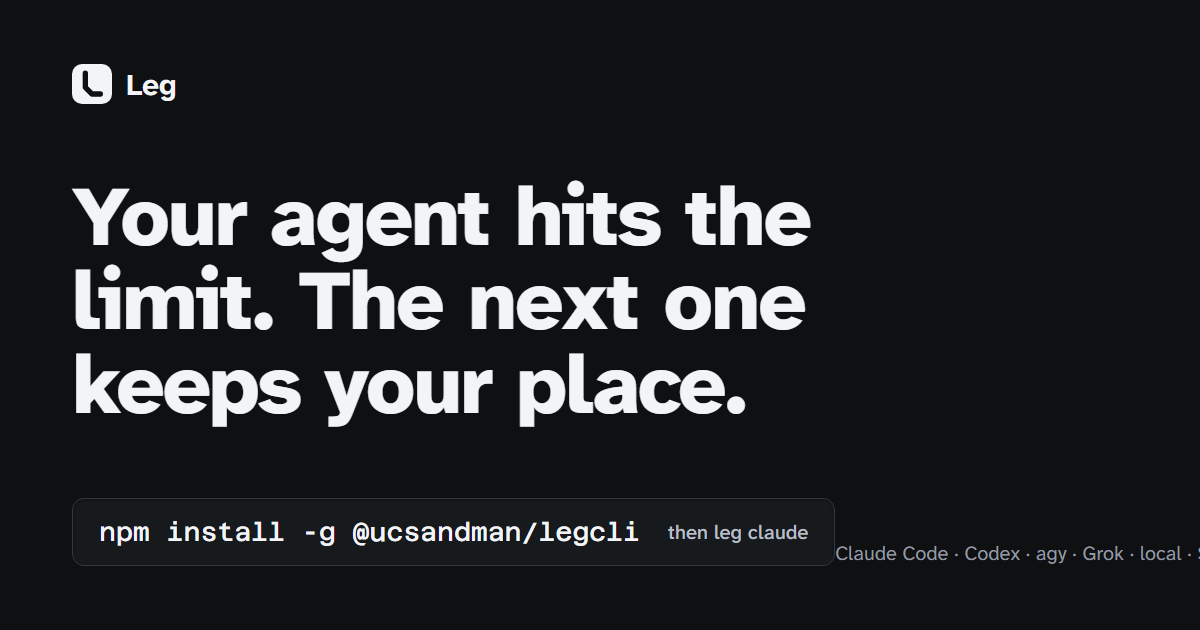
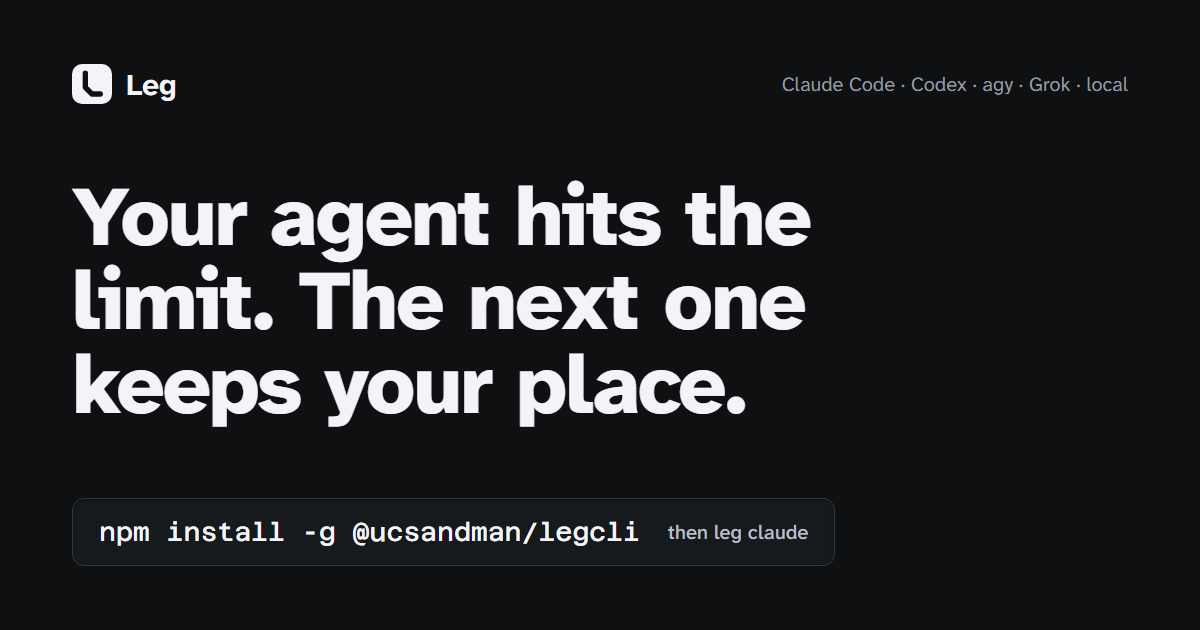
Claude: [RELEASE] 0.16.1: a backed-off board is not a missing one, one board tab, a wider login column, and the sharecard reaches X
- the terminal stops saying "no board is reading claude usage" while the
  board's poller is backed off on a 429: the poller writes next_poll_at on
  every attempt and the terminal stands down while that promise holds
- leg claude opens the board only when /api/health says viewers=0
- the capacity strip's name column fits the longest login (claude/work)
- robots.txt Disallow: /og also blocked /og.png, so X drew a bare link; now
  /og$ plus Allow: /og.png, card foot fixed, image at ?v=5

Claude-Session: https://claude.ai/code/session_018wSx8CBykYpak8YkJFRioE

Changed region(s): [[0.6475, 0.1206, 0.9558, 0.1508], [0.7092, 0.8746, 0.9867, 0.9048]]

diff --git a/site/docs/changelog.html b/site/docs/changelog.html
@@ -12,13 +12,13 @@
 <meta property="og:url" content="https://legcli.com/docs/changelog">
 <meta property="og:site_name" content="Leg">
 <meta property="og:title" content="Leg changelog">
-<meta property="og:image" content="https://legcli.com/og.png?v=4">
-<meta property="og:image:secure_url" content="https://legcli.com/og.png?v=4">
+<meta property="og:image" content="https://legcli.com/og.png?v=5">
+<meta property="og:image:secure_url" content="https://legcli.com/og.png?v=5">
 <meta property="og:image:type" content="image/png">
 <meta name="twitter:card" content="summary_large_image">
 <meta name="twitter:title" content="Leg changelog">
 <meta name="twitter:description" content="Every released version of Leg and what changed in it.">
-<meta name="twitter:image" content="https://legcli.com/og.png?v=4">
+<meta name="twitter:image" content="https://legcli.com/og.png?v=5">
 <link rel="preload" href="/fonts/atkinson-hyperlegible-next-var.woff2" as="font" type="font/woff2" crossorigin>
 <link rel="preload" href="/fonts/azeret-mono-var.woff2" as="font" type="font/woff2" crossorigin>
 <link rel="stylesheet" href="/style.css">
@@ -54,8 +54,33 @@
     </ul>
   </nav>
   <main id="doc" class="docs-body">
-<nav class="toc" aria-label="On this page"><p class="toc-title">On this page</p><ul><li><a href="#0160-2026-09-19">0.16.0 (2026-09-19)</a></li><li><a href="#0151-2026-09-19">0.15.1 (2026-09-19)</a></li><li><a href="#0150-2026-09-18">0.15.0 (2026-09-18)</a></li><li><a href="#0140-2026-09-18">0.14.0 (2026-09-18)</a></li><li><a href="#0131-2026-09-18">0.13.1 (2026-09-18)</a></li><li><a href="#0130-2026-09-18">0.13.0 (2026-09-18)</a></li><li><a href="#0120-2026-09-17">0.12.0 (2026-09-17)</a></li><li><a href="#0110-2026-09-17">0.11.0 (2026-09-17)</a></li><li><a href="#0100-2026-09-17">0.10.0 (2026-09-17)</a></li><li><a href="#090-2026-09-16">0.9.0 (2026-09-16)</a></li><li><a href="#081-2026-09-16">0.8.1 (2026-09-16)</a></li><li><a href="#080-2026-09-16">0.8.0 (2026-09-16)</a></li><li><a href="#070-2026-09-15">0.7.0 (2026-09-15)</a></li><li><a href="#061-2026-09-15">0.6.1 (2026-09-15)</a></li><li><a href="#060-2026-09-15">0.6.0 (2026-09-15)</a></li><li><a href="#051-2026-09-15">0.5.1 (2026-09-15)</a></li><li><a href="#050-2026-09-15">0.5.0 (2026-09-15)</a></li><li><a href="#043-2026-09-14">0.4.3 (2026-09-14)</a></li><li><a href="#042-2026-09-14">0.4.2 (2026-09-14)</a></li><li><a href="#041-2026-09-14">0.4.1 (2026-09-14)</a></li><li><a href="#040-2026-09-11">0.4.0 (2026-09-11)</a></li><li><a href="#032-2026-09-11">0.3.2 (2026-09-11)</a></li><li><a href="#031-2026-09-11">0.3.1 (2026-09-11)</a></li><li><a href="#030-2026-09-11">0.3.0 (2026-09-11)</a></li><li><a href="#020-2026-09-11">0.2.0 (2026-09-11)</a></li><li><a href="#010-2026-09-10">0.1.0 (2026-09-10)</a></li></ul></nav>
+<nav class="toc" aria-label="On this page"><p class="toc-title">On this page</p><ul><li><a href="#0161-2026-09-19">0.16.1 (2026-09-19)</a></li><li><a href="#0160-2026-09-19">0.16.0 (2026-09-19)</a></li><li><a href="#0151-2026-09-19">0.15.1 (2026-09-19)</a></li><li><a href="#0150-2026-09-18">0.15.0 (2026-09-18)</a></li><li><a href="#0140-2026-09-18">0.14.0 (2026-09-18)</a></li><li><a href="#0131-2026-09-18">0.13.1 (2026-09-18)</a></li><li><a href="#0130-2026-09-18">0.13.0 (2026-09-18)</a></li><li><a href="#0120-2026-09-17">0.12.0 (2026-09-17)</a></li><li><a href="#0110-2026-09-17">0.11.0 (2026-09-17)</a></li><li><a href="#0100-2026-09-17">0.10.0 (2026-09-17)</a></li><li><a href="#090-2026-09-16">0.9.0 (2026-09-16)</a></li><li><a href="#081-2026-09-16">0.8.1 (2026-09-16)</a></li><li><a href="#080-2026-09-16">0.8.0 (2026-09-16)</a></li><li><a href="#070-2026-09-15">0.7.0 (2026-09-15)</a></li><li><a href="#061-2026-09-15">0.6.1 (2026-09-15)</a></li><li><a href="#060-2026-09-15">0.6.0 (2026-09-15)</a></li><li><a href="#051-2026-09-15">0.5.1 (2026-09-15)</a></li><li><a href="#050-2026-09-15">0.5.0 (2026-09-15)</a></li><li><a href="#043-2026-09-14">0.4.3 (2026-09-14)</a></li><li><a href="#042-2026-09-14">0.4.2 (2026-09-14)</a></li><li><a href="#041-2026-09-14">0.4.1 (2026-09-14)</a></li><li><a href="#040-2026-09-11">0.4.0 (2026-09-11)</a></li><li><a href="#032-2026-09-11">0.3.2 (2026-09-11)</a></li><li><a href="#031-2026-09-11">0.3.1 (2026-09-11)</a></li><li><a href="#030-2026-09-11">0.3.0 (2026-09-11)</a></li><li><a href="#020-2026-09-11">0.2.0 (2026-09-11)</a></li><li><a href="#010-2026-09-10">0.1.0 (2026-09-10)</a></li></ul></nav>
 <h1 id="changelog"><a class="anchor" href="#changelog">Changelog</a></h1>
+<h2 id="0161-2026-09-19"><a class="anchor" href="#0161-2026-09-19">0.16.1 (2026-09-19)</a></h2>
+<p>Three things that nagged every session, and the sharecard.</p>
+<ul>
+<li><strong>The terminal no longer claims &quot;no board is reading claude usage&quot; while
+one is.</strong> A 429 from the usage endpoint backs the board&#39;s poller off for up
+to ten minutes; the terminal read the stale record as &quot;no board&quot;, said so,
+and started its own reads, one more request a minute at an endpoint already
+refusing. The poller now writes <code>next_poll_at</code> on every attempt, a refusal
+included, and the terminal stands down while that promise is not overdue
+(<code>boardIsPolling</code>, src/usage.mjs). A board that is genuinely gone still
+gets the old line and the old fallback.</li>
+<li><strong><code>leg claude</code> opens the board only when nobody is looking at it.</strong>
+<code>/api/health</code> reports <code>viewers</code>, the count of browser tabs on the event
+stream; a second terminal on a board that is already on screen adds no tab.
+A guarded board (share on) says no count and opens as before.</li>
+<li><strong>A second claude login fits its row on the capacity strip.</strong> The name
+column was a fixed 7ch, and &quot;claude/work&quot; ran into its own track. The
+column is now as wide as the longest login on the strip, set by strip.js,
+so every row&#39;s track still starts flush.</li>
+<li><strong>The sharecard reaches X.</strong> robots.txt said <code>Disallow: /og</code> to keep the
+card&#39;s source page out of the index, and that prefix also blocked
+<code>/og.png</code>, so X drew a bare link for four days. The line is <code>/og$</code> with an
+explicit <code>Allow: /og.png</code>; the card&#39;s foot no longer overflows the frame
+and the image URL is <code>?v=5</code>.</li>
+</ul>
 <h2 id="0160-2026-09-19"><a class="anchor" href="#0160-2026-09-19">0.16.0 (2026-09-19)</a></h2>
 <p>The board reads as one product: a polish pass inside the 2026-09-15
 direction, a new mark, and a first-run screen.</p>

diff --git a/src/board/board.css b/src/board/board.css
@@ -237,7 +237,10 @@ code { font-family: var(--mono); font-size: 0.94em; }
    name is text: identity is the dot and the fill, never the colour of a word */
 .capacity-strip { display: flex; align-items: flex-start; gap: 12px 32px; flex-wrap: nowrap; min-height: 44px; font-size: var(--t-0); }
 .cap-tokens { display: grid; grid-template-columns: repeat(auto-fill, minmax(300px, 1fr)); gap: 10px 40px; flex: 1 1 auto; min-width: 0; }
-.cap-token { display: grid; grid-template-columns: 8px 7ch 120px minmax(0, 1fr); align-items: center; gap: 10px; min-height: 28px; }
+/* the name column is as wide as the longest login on the strip (strip.js sets
+   --cap-name on the container): a second claude login reads "claude/work",
+   and a fixed 7ch put the slash over the track */
+.cap-token { display: grid; grid-template-columns: 8px var(--cap-name, 7ch) 120px minmax(0, 1fr); align-items: center; gap: 10px; min-height: 28px; }
 .cap-name { font-weight: var(--w-head); color: var(--text-2); }
 .cap-track { position: relative; flex: none; width: 120px; height: 6px; background: var(--track); border-radius: 999px; box-shadow: var(--sink); overflow: hidden; }
 .cap-fill { position: absolute; inset: 0 auto 0 0; border-radius: 999px; background: var(--calm); }
@@ -704,7 +707,7 @@ dialog::backdrop { background: rgba(0,0,0,.6); }
      with its state word carries the whole fact on its own */
   .capacity-strip { display: block; }
   .cap-tokens { grid-template-columns: 1fr; }
-  .cap-token { grid-template-columns: 8px 7ch minmax(0, 1fr); }
+  .cap-token { grid-template-columns: 8px var(--cap-name, 7ch) minmax(0, 1fr); }
   .cap-track { display: none; }
   .cap-figure { grid-column: 3; text-align: right; }
   .cap-open { margin-left: 0; margin-top: 12px; }

diff --git a/site/index.html b/site/index.html
@@ -15,8 +15,8 @@
 <meta property="og:site_name" content="Leg">
 <meta property="og:title" content="Your agent hits the limit. The next one keeps your place.">
 <meta property="og:description" content="leg claude, leg codex, leg agy or leg grok: the same agent with a board beside it, usage per model, and at the limit the next model or the next agent continuing in the same terminal.">
-<meta property="og:image" content="https://legcli.com/og.png?v=4">
-<meta property="og:image:secure_url" content="https://legcli.com/og.png?v=4">
+<meta property="og:image" content="https://legcli.com/og.png?v=5">
+<meta property="og:image:secure_url" content="https://legcli.com/og.png?v=5">
 <meta property="og:image:type" content="image/png">
 <meta property="og:image:width" content="1200">
 <meta property="og:image:height" content="630">
@@ -24,7 +24,7 @@
 <meta name="twitter:card" content="summary_large_image">
 <meta name="twitter:title" content="Your agent hits the limit. The next one keeps your place.">
 <meta name="twitter:description" content="leg claude, leg codex, leg agy or leg grok: the same agent with a board beside it, usage per model, and at the limit the next model or the next agent continuing in the same terminal.">
-<meta name="twitter:image" content="https://legcli.com/og.png?v=4">
+<meta name="twitter:image" content="https://legcli.com/og.png?v=5">
 <meta name="twitter:image:alt" content="Leg - Your agent hits the limit. The next one keeps your place.">
 <link rel="preload" href="fonts/atkinson-hyperlegible-next-var.woff2" as="font" type="font/woff2" crossorigin>
 <link rel="preload" href="fonts/azeret-mono-var.woff2" as="font" type="font/woff2" crossorigin>

diff --git a/site/og.html b/site/og.html
@@ -16,19 +16,22 @@ h1 { margin: 0; font-size: 84px; line-height: 1.0; letter-spacing: -0.025em; fon
 .cmd { display: inline-flex; flex: none; white-space: nowrap; align-items: center; gap: 28px; font-family: "Azeret Mono", monospace; font-size: 26px; font-weight: 500; padding: 18px 26px; background: #171A1D; border: 1px solid #35383D; border-radius: 12px; box-shadow: inset 0 1px 3px rgba(0,0,0,.5); }
 .cmd span { color: #B9BEC6; font-family: "Atkinson Hyperlegible Next", sans-serif; font-size: 20px; }
 .foot { display: flex; justify-content: space-between; align-items: flex-end; }
-.tags { font-size: 20px; color: #9399A1; white-space: nowrap; }
+.tags { font-size: 20px; color: #9399A1; white-space: nowrap; font-weight: 400; }
+.top { display: flex; justify-content: space-between; align-items: center; }
 </style>
 </head>
 <body>
 <div class="card">
+  <div class="top">
   <div class="brand">
     <svg viewBox="0 0 24 24" aria-hidden="true"><rect width="24" height="24" rx="6" fill="#F3F4F7"/><path d="M8 5.5v8.5l4 4h5" stroke="#0E1012" stroke-width="3.2" stroke-linecap="round" stroke-linejoin="round" fill="none"/></svg>
     Leg
   </div>
+  <div class="tags">Claude Code · Codex · agy · Grok · local</div>
+  </div>
   <h1>Your agent hits the limit. The next one keeps your place.</h1>
   <div class="foot">
     <div class="cmd">npm install -g @ucsandman/legcli <span>then leg claude</span></div>
-    <div class="tags">Claude Code · Codex · agy · Grok · local · $79</div>
   </div>
 </div>
 </body>

diff --git a/site/docs/history.html b/site/docs/history.html
@@ -12,13 +12,13 @@
 <meta property="og:url" content="https://legcli.com/docs/history">
 <meta property="og:site_name" content="Leg">
 <meta property="og:title" content="Every conversation on this machine: leg history and leg worktrees">
-<meta property="og:image" content="https://legcli.com/og.png?v=4">
-<meta property="og:image:secure_url" content="https://legcli.com/og.png?v=4">
+<meta property="og:image" content="https://legcli.com/og.png?v=5">
+<meta property="og:image:secure_url" content="https://legcli.com/og.png?v=5">
 <meta property="og:image:type" content="image/png">
 <meta name="twitter:card" content="summary_large_image">
 <meta name="twitter:title" content="Every conversation on this machine: leg history and leg worktrees">
 <meta name="twitter:description" content="One read-only index over the conversations Claude Code, Codex, Grok, Antigravity and Copilot CLI keep in their own stores, plus the sessions Leg started itself, and every checkout: the support matrix, what is read, what is written, and how to continue one.">
-<meta name="twitter:image" content="https://legcli.com/og.png?v=4">
+<meta name="twitter:image" content="https://legcli.com/og.png?v=5">
 <link rel="preload" href="/fonts/atkinson-hyperlegible-next-var.woff2" as="font" type="font/woff2" crossorigin>
 <link rel="preload" href="/fonts/azeret-mono-var.woff2" as="font" type="font/woff2" crossorigin>
 <link rel="stylesheet" href="/style.css">

diff --git a/site/docs/harness.html b/site/docs/harness.html
@@ -12,13 +12,13 @@
 <meta property="og:url" content="https://legcli.com/docs/harness">
 <meta property="og:site_name" content="Leg">
 <meta property="og:title" content="The portable harness: carry rules, hooks, skills and MCP servers between agents">
-<meta property="og:image" content="https://legcli.com/og.png?v=4">
-<meta property="og:image:secure_url" content="https://legcli.com/og.png?v=4">
+<meta property="og:image" content="https://legcli.com/og.png?v=5">
+<meta property="og:image:secure_url" content="https://legcli.com/og.png?v=5">
 <meta property="og:image:type" content="image/png">
 <meta name="twitter:card" content="summary_large_image">
 <meta name="twitter:title" content="The portable harness: carry rules, hooks, skills and MCP servers between agents">
 <meta name="twitter:description" content="How Leg carries the source agent's working environment to the agent a handoff lands on, what moves and what does not, the policies, ownership and backups, and how secrets are handled.">
-<meta name="twitter:image" content="https://legcli.com/og.png?v=4">
+<meta name="twitter:image" content="https://legcli.com/og.png?v=5">
 <link rel="preload" href="/fonts/atkinson-hyperlegible-next-var.woff2" as="font" type="font/woff2" crossorigin>
 <link rel="preload" href="/fonts/azeret-mono-var.woff2" as="font" type="font/woff2" crossorigin>
 <link rel="stylesheet" href="/style.css">

diff --git a/site/docs/adapters.html b/site/docs/adapters.html
@@ -12,13 +12,13 @@
 <meta property="og:url" content="https://legcli.com/docs/adapters">
 <meta property="og:site_name" content="Leg">
 <meta property="og:title" content="Leg agent adapters for Claude Code, Codex, agy and Grok">
-<meta property="og:image" content="https://legcli.com/og.png?v=4">
-<meta property="og:image:secure_url" content="https://legcli.com/og.png?v=4">
+<meta property="og:image" content="https://legcli.com/og.png?v=5">
+<meta property="og:image:secure_url" content="https://legcli.com/og.png?v=5">
 <meta property="og:image:type" content="image/png">
 <meta name="twitter:card" content="summary_large_image">
 <meta name="twitter:title" content="Leg agent adapters for Claude Code, Codex, agy and Grok">
 <meta name="twitter:description" content="How each agent adapter spawns its CLI, what it strips from the environment, how to tell whether a tap is live or docs-only, and how to add any other CLI from a JSON spec.">
-<meta name="twitter:image" content="https://legcli.com/og.png?v=4">
+<meta name="twitter:image" content="https://legcli.com/og.png?v=5">
 <link rel="preload" href="/fonts/atkinson-hyperlegible-next-var.woff2" as="font" type="font/woff2" crossorigin>
 <link rel="preload" href="/fonts/azeret-mono-var.woff2" as="font" type="font/woff2" crossorigin>
 <link rel="stylesheet" href="/style.css">

diff --git a/site/docs/real-run.html b/site/docs/real-run.html
@@ -12,13 +12,13 @@
 <meta property="og:url" content="https://legcli.com/docs/real-run">
 <meta property="og:site_name" content="Leg">
 <meta property="og:title" content="A real run: Claude Code hits its usage limit, Codex continues">
-<meta property="og:image" content="https://legcli.com/og.png?v=4">
-<meta property="og:image:secure_url" content="https://legcli.com/og.png?v=4">
+<meta property="og:image" content="https://legcli.com/og.png?v=5">
+<meta property="og:image:secure_url" content="https://legcli.com/og.png?v=5">
 <meta property="og:image:type" content="image/png">
 <meta name="twitter:card" content="summary_large_image">
 <meta name="twitter:title" content="A real run: Claude Code hits its usage limit, Codex continues">
 <meta name="twitter:description" content="One recorded session: Claude Code working, the limit landing, the bundle saved, and Codex picking the work up in the same terminal.">
-<meta name="twitter:image" content="https://legcli.com/og.png?v=4">
+<meta name="twitter:image" content="https://legcli.com/og.png?v=5">
 <link rel="preload" href="/fonts/atkinson-hyperlegible-next-var.woff2" as="font" type="font/woff2" crossorigin>
 <link rel="preload" href="/fonts/azeret-mono-var.woff2" as="font" type="font/woff2" crossorigin>
 <link rel="stylesheet" href="/style.css">

diff --git a/site/docs/cli-contracts.html b/site/docs/cli-contracts.html
@@ -12,13 +12,13 @@
 <meta property="og:url" content="https://legcli.com/docs/cli-contracts">
 <meta property="og:site_name" content="Leg">
 <meta property="og:title" content="What Leg reads from Claude Code, Codex, agy and Grok">
-<meta property="og:image" content="https://legcli.com/og.png?v=4">
-<meta property="og:image:secure_url" content="https://legcli.com/og.png?v=4">
+<meta property="og:image" content="https://legcli.com/og.png?v=5">
+<meta property="og:image:secure_url" content="https://legcli.com/og.png?v=5">
 <meta property="og:image:type" content="image/png">
 <meta name="twitter:card" content="summary_large_image">
 <meta name="twitter:title" content="What Leg reads from Claude Code, Codex, agy and Grok">
 <meta name="twitter:description" content="The exact usage endpoints, hooks, log lines and limit strings Leg reads from Claude Code, Codex, agy and Grok, each cited to its source.">
-<meta name="twitter:image" content="https://legcli.com/og.png?v=4">
+<meta name="twitter:image" content="https://legcli.com/og.png?v=5">
 <link rel="preload" href="/fonts/atkinson-hyperlegible-next-var.woff2" as="font" type="font/woff2" crossorigin>
 <link rel="preload" href="/fonts/azeret-mono-var.woff2" as="font" type="font/woff2" crossorigin>
 <link rel="stylesheet" href="/style.css">

diff --git a/site/docs/faq.html b/site/docs/faq.html
@@ -12,13 +12,13 @@
 <meta property="og:url" content="https://legcli.com/docs/faq">
 <meta property="og:site_name" content="Leg">
 <meta property="og:title" content="Leg FAQ: what it edits, what it sends, how the license works">
-<meta property="og:image" content="https://legcli.com/og.png?v=4">
-<meta property="og:image:secure_url" content="https://legcli.com/og.png?v=4">
+<meta property="og:image" content="https://legcli.com/og.png?v=5">
+<meta property="og:image:secure_url" content="https://legcli.com/og.png?v=5">
 <meta property="og:image:type" content="image/png">
 <meta name="twitter:card" content="summary_large_image">
 <meta name="twitter:title" content="Leg FAQ: what it edits, what it sends, how the license works">
 <meta name="twitter:description" content="What Leg edits and never edits, whether it sends anything anywhere, what happens to your license, and what it does not do.">
-<meta name="twitter:image" content="https://legcli.com/og.png?v=4">
+<meta name="twitter:image" content="https://legcli.com/og.png?v=5">
 <link rel="preload" href="/fonts/atkinson-hyperlegible-next-var.woff2" as="font" type="font/woff2" crossorigin>
 <link rel="preload" href="/fonts/azeret-mono-var.woff2" as="font" type="font/woff2" crossorigin>
 <link rel="stylesheet" href="/style.css">

diff --git a/site/docs/getting-started.html b/site/docs/getting-started.html
@@ -12,13 +12,13 @@
 <meta property="og:url" content="https://legcli.com/docs/getting-started">
 <meta property="og:site_name" content="Leg">
 <meta property="og:title" content="Install Leg and monitor your Claude Code usage limit">
-<meta property="og:image" content="https://legcli.com/og.png?v=4">
-<meta property="og:image:secure_url" content="https://legcli.com/og.png?v=4">
+<meta property="og:image" content="https://legcli.com/og.png?v=5">
+<meta property="og:image:secure_url" content="https://legcli.com/og.png?v=5">
 <meta property="og:image:type" content="image/png">
 <meta name="twitter:card" content="summary_large_image">
 <meta name="twitter:title" content="Install Leg and monitor your Claude Code usage limit">
 <meta name="twitter:description" content="Install Leg, run your first agent under it, and see the board, the usage reading and the handoff. Node 22+, one npm command.">
-<meta name="twitter:image" content="https://legcli.com/og.png?v=4">
+<meta name="twitter:image" content="https://legcli.com/og.png?v=5">
 <link rel="preload" href="/fonts/atkinson-hyperlegible-next-var.woff2" as="font" type="font/woff2" crossorigin>
 <link rel="preload" href="/fonts/azeret-mono-var.woff2" as="font" type="font/woff2" crossorigin>
 <link rel="stylesheet" href="/style.css">

diff --git a/site/docs/concepts.html b/site/docs/concepts.html
@@ -12,13 +12,13 @@
 <meta property="og:url" content="https://legcli.com/docs/concepts">
 <meta property="og:site_name" content="Leg">
 <meta property="og:title" content="How Leg works: sessions, bundles and the wall">
-<meta property="og:image" content="https://legcli.com/og.png?v=4">
-<meta property="og:image:secure_url" content="https://legcli.com/og.png?v=4">
+<meta property="og:image" content="https://legcli.com/og.png?v=5">
+<meta property="og:image:secure_url" content="https://legcli.com/og.png?v=5">
 <meta property="og:image:type" content="image/png">
 <meta name="twitter:card" content="summary_large_image">
 <meta name="twitter:title" content="How Leg works: sessions, bundles and the wall">
 <meta name="twitter:description" content="The pieces Leg is built from: a session, the usage reading, the handoff bundle, the wall, worktrees and landing work on trunk.">
-<meta name="twitter:image" content="https://legcli.com/og.png?v=4">
+<meta name="twitter:image" content="https://legcli.com/og.png?v=5">
 <link rel="preload" href="/fonts/atkinson-hyperlegible-next-var.woff2" as="font" type="font/woff2" crossorigin>
 <link rel="preload" href="/fonts/azeret-mono-var.woff2" as="font" type="font/woff2" crossorigin>
 <link rel="stylesheet" href="/style.css">
